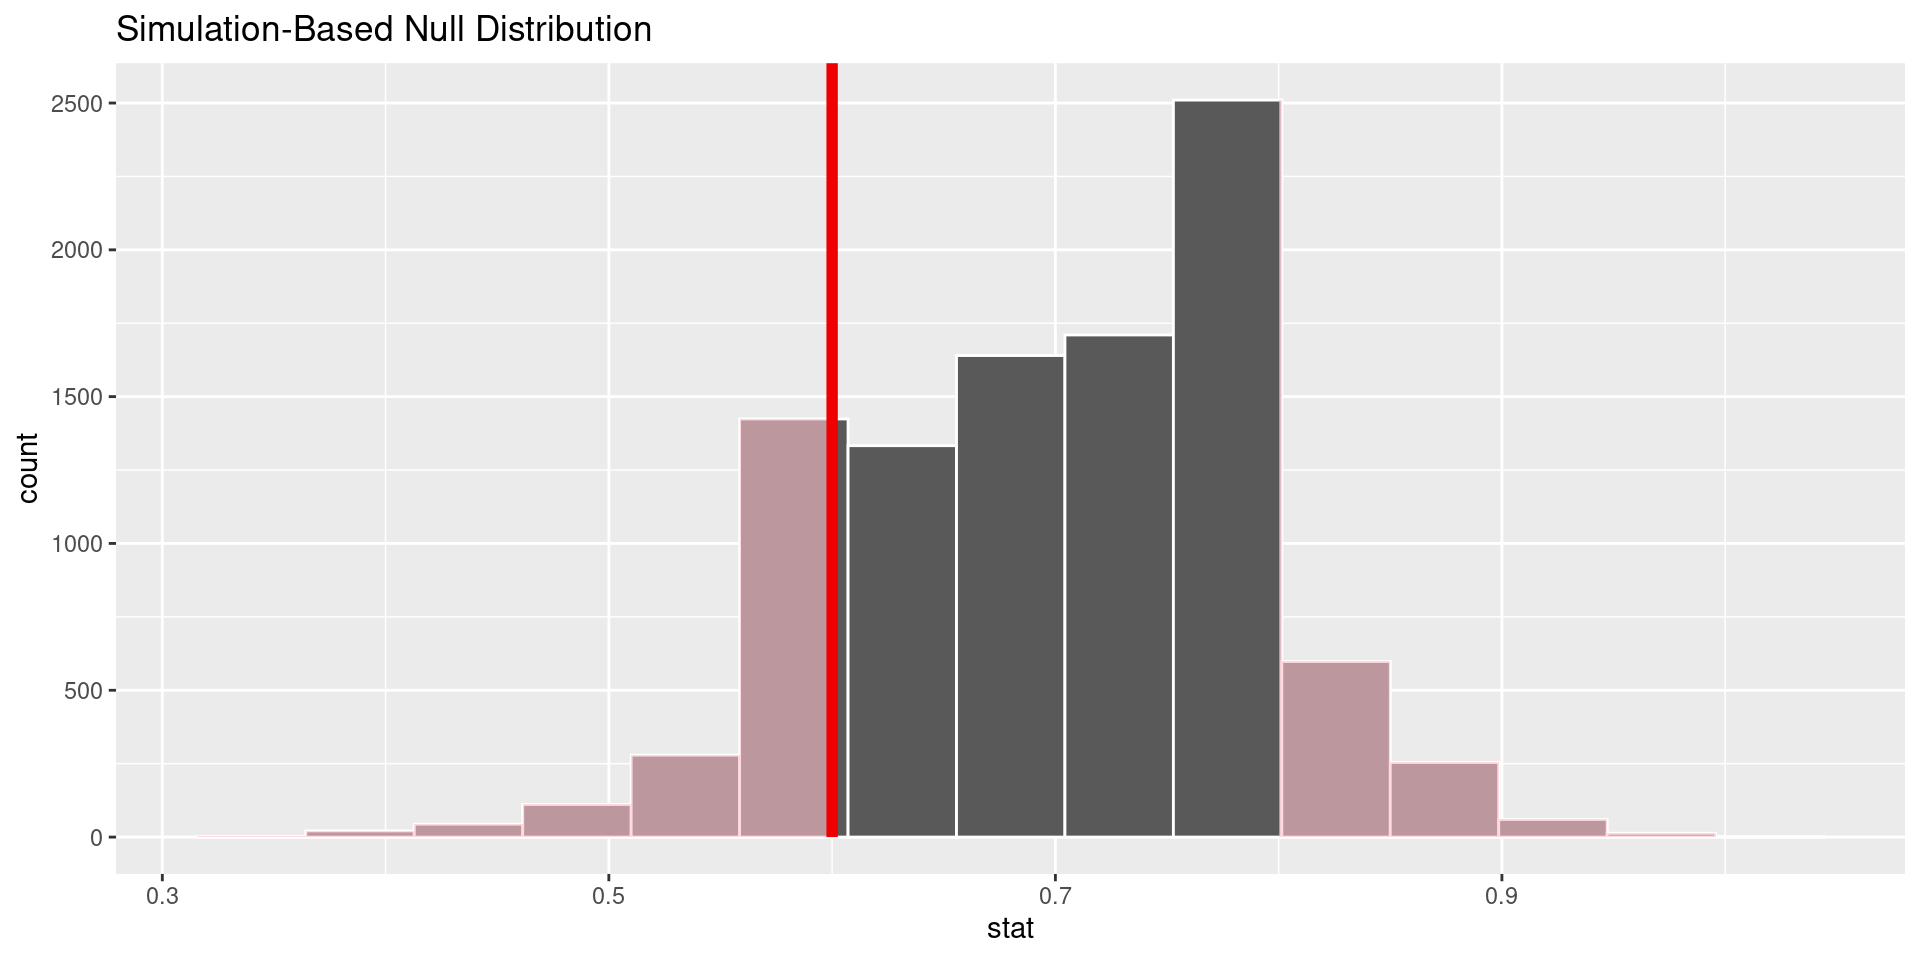
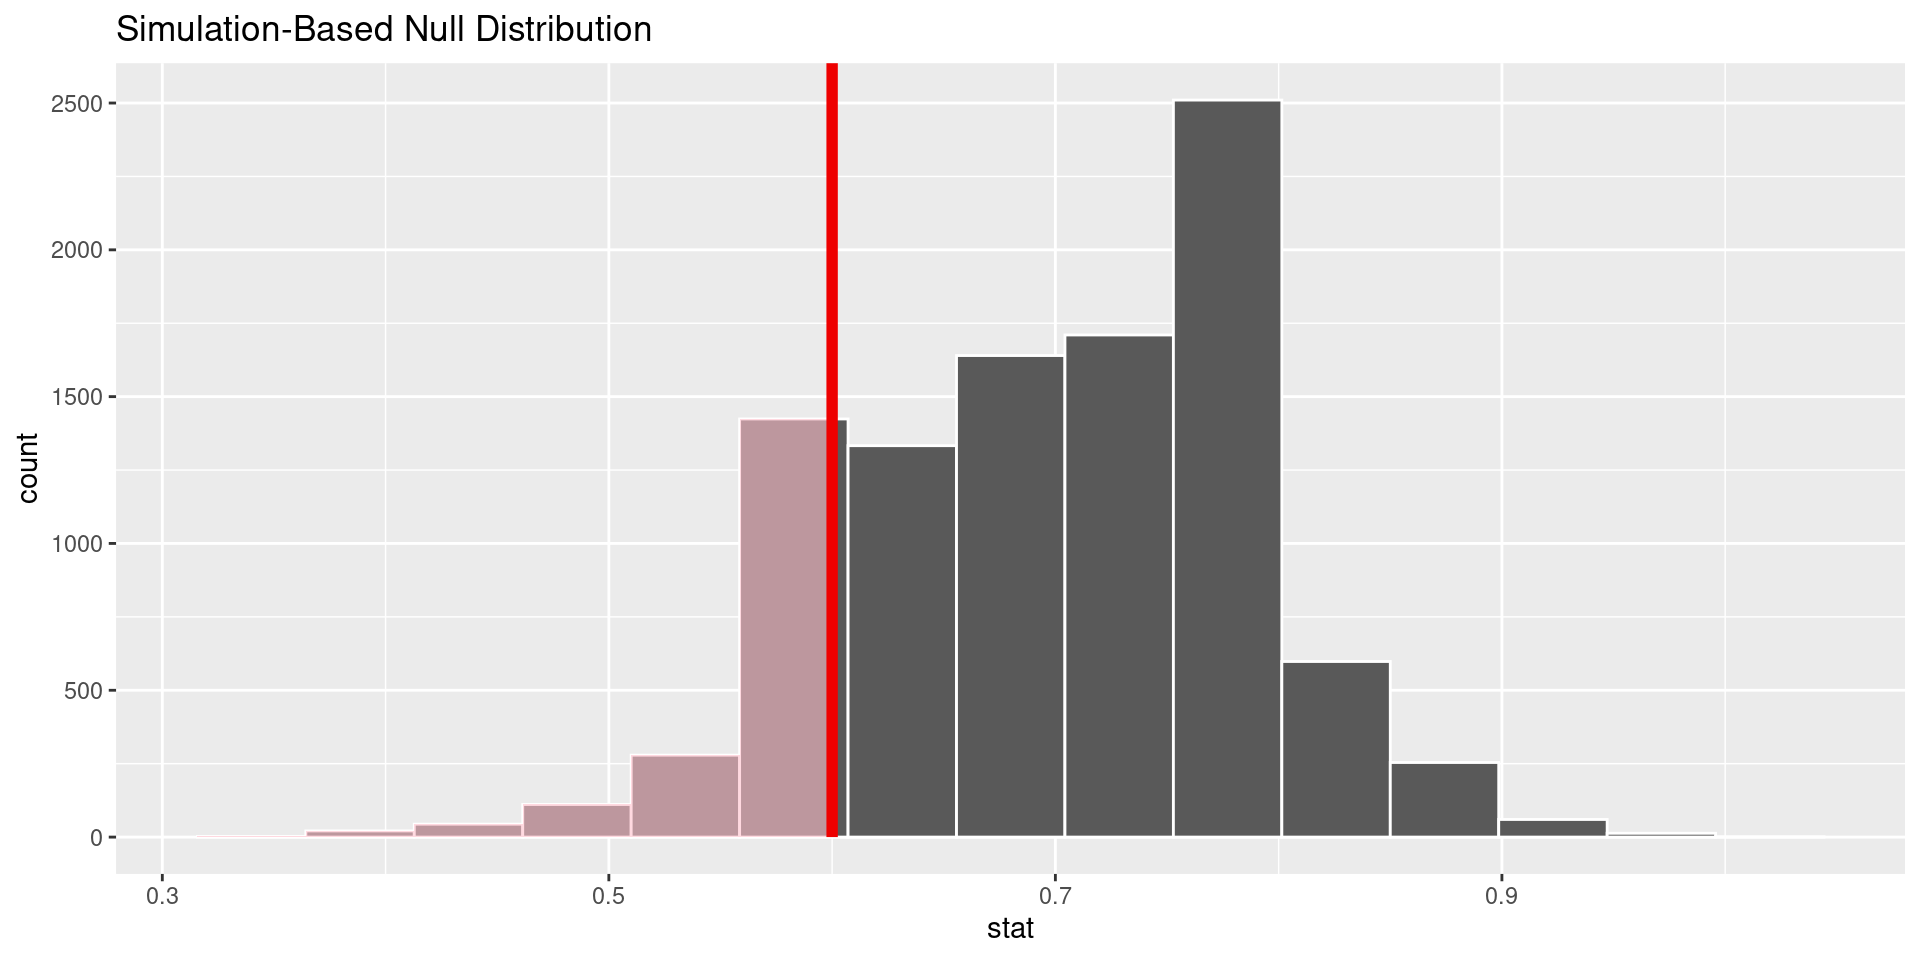
lecture 13 updates

Changed region(s): [[0.6562, 0.6875, 0.875, 0.875]]

diff --git a/docs/lectures/13_parametric_boot.html b/docs/lectures/13_parametric_boot.html
@@ -526,19 +526,10 @@ H_A: p &gt; 0.5
 <p>The conclusion is the same as the first lecture from homework 6. The pvalue is much smaller than 0.05 so it is likely that a majority of students have had more than 1 exclusive relationship.</p>
 </section>
 <section id="mathematical-vs.-simulation" class="slide level2">
-<h2>Mathematical vs.&nbsp;simulation</h2>
+<h2>Mathematical vs.&nbsp;Simulation</h2>
 <p>Both methods are valid and often end at the same conclusion</p>
-<p>Math uses formula based on conditions which must be checked. A theoretical distribution is built and probabilities calculates.</p>
-<p>Alternatively a simulated distribution is built, which makes a simulated sampling distribution which is very similar to the theoretical distribution, conditions can be relaxed because we can visibly verify that the distribution is normal.</p>
-</section>
-<section id="homework" class="slide level2">
-<h2>Homework</h2>
-<p>On your homework you will use the math formula to make a theoretical distribution and calculate probabilities.</p>
-</section>
-<section id="r-assignment" class="slide level2">
-<h2>R Assignment</h2>
-<p>You will make a simulated distribution of your own and find pvalues in a future R Assignment.</p>
-<p>We’ll look at another example in the next video.</p>
+<p>Math uses formula based on conditions which must be checked. A theoretical distribution is built and probabilities calculated.</p>
+<p>A simulated distribution is built from resampling the sample. Conditions can be relaxed as we can visibly verify that the distribution is normal.</p>
 </section>
 <section id="another-example" class="slide level2">
 <h2>Another example</h2>
@@ -583,7 +574,7 @@ H_a: p \ne 0.40
 </section>
 <section id="calculate-p-hat" class="slide level2">
 <h2>Calculate p-hat</h2>
-<p>We already know <span class="math inline">\(\hat{p} = 0.65\)</span>. But if we didn’t we could do this:</p>
+<p>We can calculate <span class="math inline">\(\hat{p} = \frac{13}{20} = 0.65\)</span>. But could do this:</p>
 <div class="cell">
 <div class="sourceCode cell-code" id="cb11"><pre class="sourceCode numberSource r number-lines code-with-copy"><code class="sourceCode r"><span id="cb11-1"><a></a>p_hat <span class="ot">&lt;-</span> clinic_sample  <span class="sc">|&gt;</span></span>
 <span id="cb11-2"><a></a>  <span class="co"># Telling R what we care about with specify </span></span>
@@ -693,19 +684,15 @@ Null Hypothesis: point
 <section id="conclusion-1" class="title-slide slide level1 center">
 <h1>Conclusion</h1>
 <p>Reject null.</p>
-<p>This means that the doctor doing the study should believe that locally people have this disease at a different rate than nationally.</p>
+<p>This means that the doctor doing the study should believe that locally people have a blood born disease at a different rate than nationally.</p>
 </section>
 <section id="should-we-do-this-problem-again-with-a-mathematical-model." class="slide level2">
 <h2>Should we do this problem again with a mathematical model.</h2>
-<p>We should be hesitant, it does not meet the success-failure criterion.</p>
+<p>We should be hesitant, it does not meet the success-failure criterion and the sample is small.</p>
 </section>
 <section id="last-example" class="slide level2">
 <h2>Last example</h2>
-<p>Problem 11 twice</p>
-<p>We’ll do it once with the parametric bootstrap and once with a mathematical model.</p>
-</section>
-<section id="problem-11-ch-16" class="slide level2">
-<h2>Problem 11, Ch 16</h2>
+<p>Problem 11, Ch 16</p>
 <p><strong>Statistics and employment</strong> In a large university where 70% of the full-time students are employed at least 5 hours per week, the members of the Statistics Department wonder if a smaller proportion of their students work at least 5 hours per week. They randomly sample 25 majors and find that 15 of the students work 5 or more hours each week.</p>
 </section>
 <section id="make-sample-1" class="slide level2">
@@ -781,7 +768,7 @@ H_a: p &lt; 0.7
 <h2>Add the p-value to graph</h2>
 <div class="cell">
 <div class="sourceCode cell-code" id="cb24"><pre class="sourceCode numberSource r number-lines code-with-copy"><code class="sourceCode r"><span id="cb24-1"><a></a><span class="fu">visualize</span>(null_distn_one_prop) <span class="sc">+</span></span>
-<span id="cb24-2"><a></a>  <span class="fu">shade_p_value</span>(<span class="at">obs_stat =</span> p_hat, <span class="at">direction =</span> <span class="st">"both"</span>)</span></code><button title="Copy to Clipboard" class="code-copy-button"><i class="bi"></i></button></pre></div>
+<span id="cb24-2"><a></a>  <span class="fu">shade_p_value</span>(<span class="at">obs_stat =</span> p_hat, <span class="at">direction =</span> <span class="st">"less"</span>)</span></code><button title="Copy to Clipboard" class="code-copy-button"><i class="bi"></i></button></pre></div>
 
 </div>
 <img data-src="13_parametric_boot_files/figure-revealjs/unnamed-chunk-19-1.png" width="960" class="r-stretch"></section>
@@ -803,33 +790,6 @@ H_a: p &lt; 0.7
 <h2>Make conclusion</h2>
 <p>Fail to reject the null hypothesis. It seems that stats majors work the same amount as other students based on our sample.</p>
 <p>Could have made a type two error. We failed to reject the null hypothesis when it was correct.</p>
-</section>
-<section id="again-with-math." class="slide level2">
-<h2>Again with math.</h2>
-<p>Conditions are met.</p>
-<p>Hypothesis notation is the same.</p>
-<p>The assumed proportion is 0.7, the standard error is</p>
-<p><span class="math display">\[
-SE = \sqrt{\frac{(0.7)(0.3)}{25}} = 0.09165151
-\]</span></p>
-<p>The distribution of the null is.</p>
-<p><span class="math display">\[
-X \sim N(p = 0.7, SE = 0.092)
-\]</span></p>
-</section>
-<section id="calculate-the-p-value-for-p_hat" class="slide level2">
-<h2>Calculate the p-value for p_hat</h2>
-<p>We saved p_hat earlier, it should still be in your environment.</p>
-<div class="cell">
-<div class="sourceCode cell-code" id="cb27"><pre class="sourceCode numberSource r number-lines code-with-copy"><code class="sourceCode r"><span id="cb27-1"><a></a><span class="fu">pnorm</span>(<span class="at">q =</span> <span class="fl">0.6</span>, <span class="at">mean =</span> <span class="fl">0.7</span>, <span class="at">sd =</span> <span class="fl">0.09165151</span>)</span></code><button title="Copy to Clipboard" class="code-copy-button"><i class="bi"></i></button></pre></div>
-<div class="cell-output cell-output-stdout">
-<pre><code>[1] 0.1376168</code></pre>
-</div>
-</div>
-</section>
-<section id="conclusion-2" class="slide level2">
-<h2>Conclusion</h2>
-<p>We fail to reject the null hypothesis at the 5% significance level. 0.13 &gt; 0.05</p>
 
 <div class="quarto-auto-generated-content">
 <div class="footer footer-default">

diff --git a/docs/index.html b/docs/index.html
@@ -148,9 +148,9 @@ ul.task-list li input[type="checkbox"] {
 <p><a href="./lectures/10_continuous_rv.html">Lecture 10 Continuous Random Variables</a></p>
 <p><a href="./lectures/11_Normal_Dist.html">Lecture 11 The Normal Distribution</a></p>
 <p><a href="./lectures/12_hypothesis_test_prop.html">Lecture 12 Hypothesis Testing Proportion</a></p>
-<p><a href="./lectures/13_parametric_boot.html">Lecture 13 Paraemetric bootstrap Hypothesis Testing</a></p>
+<p><a href="./lectures/13_parametric_boot.html">Lecture 13 Parametric bootstrap Hypothesis Testing</a></p>
 <!-- [Lecture 15 Non-parametric bootstrap Confidence Intervals](lectures/17_bootstrap_CI_proportion.qmd) -->
-<p><a href="lectures/14__CI_prop_mathematically.qmd">Lecture 14 Confidence Intervals with Math</a></p>
+<p><a href="./lectures/14__CI_prop_mathematically.html">Lecture 14 Confidence Intervals with Math</a></p>
 <p><a href="./lectures/17_decision_error_tidying_up.html">Lecture 17 Decision Errors</a></p>
 <p><a href="./lectures/18_Two_Proportions.html">Lecture 18 Distributions and Two Proportions</a></p>
 <p><a href="./lectures/19_single_mean.html">Lecture 19 Hypothesis Test for a single mean</a></p>
